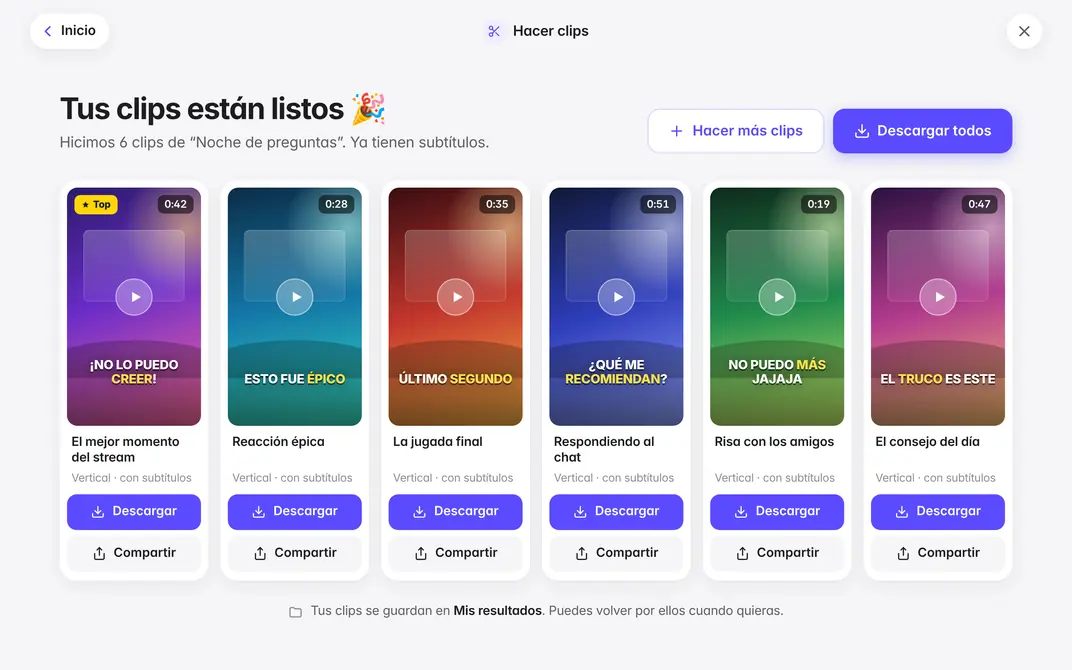
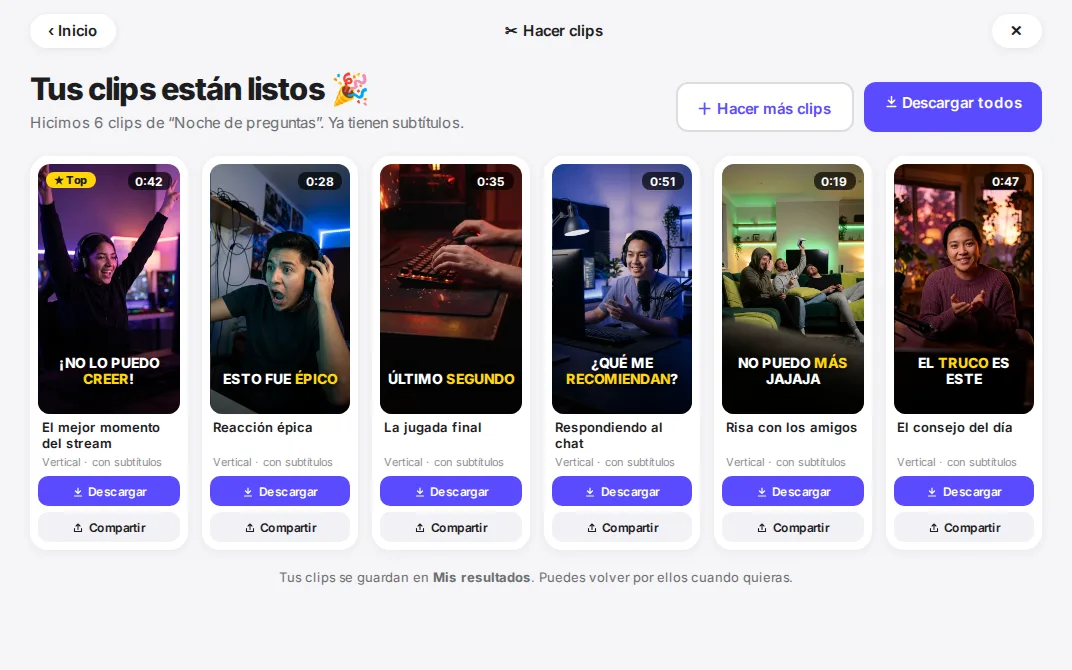
feat: Chalyb as one studio for Clips and En vivo; Chalito unlisted, landing with real clips
Owner request 2026-11-03: show only Clips and live streaming, all the studio in one place.
- Chalito is UNLISTED (display-names.ts): no card, list, plan strip or copy, but /app/chalito
  keeps working by link (push approvals, desktop sign-in).
- Señales is hidden from the admin panel (setToolVisible), so the paying-user check of terms
  §7.3 runs; nothing in code hard-hides it. The landing fallback and copy no longer name it.
- Plan strip falls back to 'see plans' when nothing listed is included.
- Footer financial disclaimer only while Señales, Pronósticos or Inversiones is active.
- Landing: hero laptop/phone re-rendered with the real clip stills (scripts/render-hero-shots.mjs),
  nav logo no longer cropped (40px image in a 34px box), Gemini photo for the En vivo card,
  copy reworked to 'Clips + En vivo, todo tu estudio en un solo lugar'.

diff --git a/tests/entitlement.test.ts b/tests/entitlement.test.ts
@@ -18,6 +18,7 @@ const ENGINES = [
     ownerUserId: null,
   },
   { id: 'e-obs', slug: 'chalybobs', status: 'active', tierRequired: 'PRO', ownerUserId: null },
+  { id: 'e-chalito', slug: 'chalito', status: 'active', tierRequired: 'PRO', ownerUserId: null },
   { id: 'e-bot', slug: 'chalybbot', status: 'coming_soon', tierRequired: 'PRO', ownerUserId: null },
   {
     id: 'e-stream',
@@ -50,7 +51,7 @@ test('FREE without a trial: every tool is a trial offer', () => {
   const e = computeEntitlements(input());
   assert.equal(e.plan, 'FREE');
   assert.equal(state(e, 'chalybclip'), 'trial_offer');
-  assert.equal(state(e, 'chalybcrypto'), 'trial_offer');
+  assert.equal(state(e, 'chalybobs'), 'trial_offer');
 });
 
 test('FREE with FREE_INCLUDES_CLIPS: Clips included, others offered', () => {
@@ -58,7 +59,6 @@ test('FREE with FREE_INCLUDES_CLIPS: Clips included, others offered', () => {
     input({ flags: { freeIncludesClips: true, proIncludesAllTools: false } }),
   );
   assert.equal(state(e, 'chalybclip'), 'included');
-  assert.equal(state(e, 'chalybcrypto'), 'trial_offer');
   assert.equal(state(e, 'chalybobs'), 'trial_offer');
 });
 
@@ -67,7 +67,7 @@ test('FREE in the legacy 7-day Clips trial: Clips only', () => {
     input({ clipsTrialStartedAt: new Date(NOW - 2 * DAY).toISOString() }),
   );
   assert.equal(state(e, 'chalybclip'), 'included');
-  assert.equal(state(e, 'chalybcrypto'), 'trial_offer');
+  assert.equal(state(e, 'chalybobs'), 'trial_offer');
   assert.deepEqual(e.trial, { kind: 'clips_legacy', daysLeft: 5, grace: false });
 });
 
@@ -80,16 +80,16 @@ test('FREE after the trial with bonus credits left: grace keeps Clips', () => {
 });
 
 test('PRO: the selected tool is included, the others are not (until P2)', () => {
-  const e = computeEntitlements(input({ storedTier: 'PRO', selectedEngineId: 'e-crypto' }));
-  assert.equal(state(e, 'chalybcrypto'), 'included');
-  assert.equal(state(e, 'chalybobs'), 'trial_offer');
+  const e = computeEntitlements(input({ storedTier: 'PRO', selectedEngineId: 'e-obs' }));
+  assert.equal(state(e, 'chalybobs'), 'included');
+  assert.equal(state(e, 'chalybclip'), 'trial_offer');
 });
 
 test('PRO with PRO_INCLUDES_ALL_TOOLS: every visible tool included', () => {
   const e = computeEntitlements(
     input({ storedTier: 'PRO', flags: { freeIncludesClips: false, proIncludesAllTools: true } }),
   );
-  for (const slug of ['chalybclip', 'chalybcrypto', 'chalybobs'])
+  for (const slug of ['chalybclip', 'chalybobs'])
     assert.equal(state(e, slug), 'included');
 });
 
@@ -99,7 +99,7 @@ test('VIP and admins: everything visible is included', () => {
     computeEntitlements(input({ role: 'ADMIN', storedTier: 'FREE' })),
   ]) {
     assert.equal(e.plan, 'VIP');
-    for (const slug of ['chalybclip', 'chalybcrypto', 'chalybobs'])
+    for (const slug of ['chalybclip', 'chalybobs'])
       assert.equal(state(e, slug), 'included');
   }
 });
@@ -108,6 +108,7 @@ test('unfinished and hidden tools have no entry at all', () => {
   const e = computeEntitlements(input({ storedTier: 'VIP' }));
   assert.equal(e.tools.chalybbot, undefined, 'coming_soon is not shown');
   assert.equal(e.tools.chalybstream, undefined, 'chalybstream is hidden (Q32)');
+  assert.equal(e.tools.chalybcrypto?.state, 'included', 'Señales is hidden from the admin panel, not in code');
 });
 
 test('a partner-owned tool is included for its owner', () => {
@@ -122,4 +123,9 @@ test('a partner-owned tool is included for its owner', () => {
   ];
   const e = computeEntitlements(input({ storedTier: 'PARTNER', engines }));
   assert.equal(state(e, 'chalybpicks'), 'included');
+});
+
+test('Chalito is unlisted, not hidden: its screens still get an entitlement', () => {
+  const e = computeEntitlements(input({ storedTier: 'VIP' }));
+  assert.equal(state(e, 'chalito'), 'included');
 });

diff --git a/src/components/app/home-model.ts b/src/components/app/home-model.ts
@@ -5,6 +5,7 @@ import type { Entitlements } from '@/lib/billing/entitlement-core';
 import { paidPlanName } from '@/lib/billing/plan-label';
 import { toolHref } from '@/lib/tools/routes';
 import { toolBySlug } from '@/config/tools';
+import { isListed } from '@/lib/engines/display-names';
 
 export type TaskKey = 'clips' | 'senales' | 'envivo' | 'mas';
 
@@ -33,10 +34,11 @@ function hrefFor(key: TaskKey, slug: string): string {
  * TOOLS-SPEC §2, F7, Q9). BUILD-SPEC §0.3: no dead-end cards.
  * `visibleSlugs` is the catalog order of the tools in entitlements.tools.
  */
-export function selectTaskCards(visibleSlugs: string[]): {
+export function selectTaskCards(slugs: string[]): {
   cards: TaskCardModel[];
   extraSlugs: string[];
 } {
+  const visibleSlugs = slugs.filter(isListed);
   const visible = new Set(visibleSlugs);
   const cards: TaskCardModel[] = HEADLINE.filter((h) => visible.has(h.slug)).map((h) => ({
     ...h,
@@ -63,7 +65,7 @@ export function selectPlanStrip(
   toolNames: Record<string, string>,
   flags: { proIncludesAllTools: boolean; trialFlow: boolean },
 ): PlanStrip {
-  const visible = Object.keys(e.tools);
+  const visible = Object.keys(e.tools).filter(isListed);
   const included = visible.filter((s) => e.tools[s]!.state === 'included');
   const names = (slugs: string[]) => slugs.map((s) => toolNames[s] ?? s);
 
@@ -80,5 +82,6 @@ export function selectPlanStrip(
       more: Math.max(0, all.length - 4),
     };
   }
+  if (included.length === 0) return { kind: 'offer', cta: 'plans' };
   return { kind: 'single', tools: names(included) };
 }

diff --git a/tests/app-shell.test.ts b/tests/app-shell.test.ts
@@ -156,7 +156,8 @@ test('plan labels', () => {
 });
 
 test('task cards: only visible headline tools, and Más only with extra live tools', () => {
-  const three = selectTaskCards(['chalybclip', 'chalybcrypto', 'chalybobs']);
+  // Chalito never gets a card (unlisted), even though entitlements carry it.
+  const three = selectTaskCards(['chalybclip', 'chalybcrypto', 'chalybobs', 'chalito']);
   assert.deepEqual(
     three.cards.map((c) => [c.key, c.href]),
     [
@@ -221,6 +222,7 @@ test('VIP / admin: everything included, chips of four + "y N más"', () => {
       chalybobs: 'included',
       chalybbot: 'included',
       chalybpicks: 'included',
+      chalito: 'included',
     }),
   };
   assert.deepEqual(selectPlanStrip(e, NAMES, OFF), {
@@ -251,4 +253,13 @@ test('Pro on one tool (Q7 off) names what it includes; with all tools it is "tod
     chips: ['Clips', 'Señales', 'En vivo'],
     more: 0,
   });
+});
+
+test('Pro with nothing listed included (its tool was hidden) gets "see plans", never an empty strip', () => {
+  const e = {
+    plan: 'PRO' as const,
+    trialUsed: false,
+    tools: tools({ chalybclip: 'trial_offer', chalybobs: 'trial_offer', chalito: 'included' }),
+  };
+  assert.deepEqual(selectPlanStrip(e, NAMES, OFF), { kind: 'offer', cta: 'plans' });
 });

diff --git a/src/components/public/public-footer.tsx b/src/components/public/public-footer.tsx
@@ -13,9 +13,14 @@ import { LEGAL_PAGES } from '@/lib/legal/public-pages';
 import { LanguageSwitcher } from '@/components/i18n/language-switcher';
 import { CookieSettingsButton } from './cookie-banner';
 
+/** The disclaimer names these tools, so it shows only while one of them is active. */
+const FINANCIAL = new Set(['chalybcrypto', 'chalybpicks', 'chalybtrade']);
+
 export async function PublicFooter({ onLanding = false }: { onLanding?: boolean }) {
   const t = await getTranslations('landing.publicFooter');
-  const tools = (await listActiveTools()).slice(0, 3);
+  const active = await listActiveTools();
+  const tools = active.slice(0, 3);
+  const financial = active.some((x) => FINANCIAL.has(x.slug));
   const entity = legalEntity();
   const seller = [entity.name, entity.address, entity.phone, entity.email].filter(Boolean);
 
@@ -67,7 +72,7 @@ export async function PublicFooter({ onLanding = false }: { onLanding?: boolean 
           </nav>
         </div>
 
-        <p className="pub-foot__disc">{t('disclaimer')}</p>
+        {financial && <p className="pub-foot__disc">{t('disclaimer')}</p>}
 
         {seller.length > 0 && (
           <address className="pub-foot__seller">

diff --git a/src/app/[locale]/(dashboard)/app/settings/page.tsx b/src/app/[locale]/(dashboard)/app/settings/page.tsx
@@ -28,6 +28,7 @@ import { Avatar, ButtonLink, Group, Row } from '@/components/ui/primitives';
 import { SignOutRow } from '@/components/app/sign-out-row';
 import { getClipsAdapter } from '@/lib/tools/adapters/clips';
 import { PLATFORM_NAMES } from '@/components/tools/clips/accounts-list';
+import { isListed } from '@/lib/engines/display-names';
 
 export async function generateMetadata(): Promise<Metadata> {
   const t = await getTranslations('account');
@@ -67,7 +68,9 @@ export default async function MiCuentaPage({ params }: { params: Promise<{ local
     ?.filter((a) => a.connected)
     .map((a) => PLATFORM_NAMES[a.platform]);
   const listFmt = new Intl.ListFormat(locale === 'es' ? 'es' : 'en', { type: 'conjunction' });
-  const tools = Object.values(entitlements.tools);
+  const tools = Object.entries(entitlements.tools)
+    .filter(([slug]) => isListed(slug))
+    .map(([, a]) => a);
   const allIncluded = tools.length > 0 && tools.every((a) => a.state === 'included');
   const planKey = planLabelKey(entitlements.plan) as 'gratis' | 'pro' | 'vip';
   // "Ver mi plan" → Mi plan (SCR-30); Free → the trial (SCR-14) once it exists.

diff --git a/src/lib/engines/display-names.ts b/src/lib/engines/display-names.ts
@@ -32,6 +32,15 @@ export const ENGINE_DISPLAY_NAMES: Record<string, string> = {
  *  their status (Q32). */
 export const HIDDEN_FROM_CUSTOMERS: ReadonlySet<string> = new Set(['chalybstream']);
 
+// Owner request 2026-11-03: Chalyb lists only Clips and En vivo. Chalito keeps its
+// /app/chalito links (push approvals, desktop sign-in) but never shows in a list.
+export const UNLISTED: ReadonlySet<string> = new Set(['chalito']);
+
+/** Whether a slug may appear in customer lists. */
+export function isListed(slug: string): boolean {
+  return !HIDDEN_FROM_CUSTOMERS.has(slug) && !UNLISTED.has(slug);
+}
+
 /** Tool colors from the design system (`more_shared.py` TOOLS). */
 export const TOOL_COLORS: Record<string, string> = {
   chalybclip: '#5B4BFF',
@@ -58,9 +67,3 @@ export function engineDisplayName(
   return ENGINE_DISPLAY_NAMES[key] ?? fallback ?? (slug || '');
 }
 
-/** The three tools with a product behind them today, in display order. */
-export const LIVE_ENGINE_NAMES = [
-  ENGINE_DISPLAY_NAMES.chalybclip!,
-  ENGINE_DISPLAY_NAMES.chalybcrypto!,
-  ENGINE_DISPLAY_NAMES.chalybobs!,
-] as const;

diff --git a/src/app/[locale]/(dashboard)/app/herramientas/page.tsx b/src/app/[locale]/(dashboard)/app/herramientas/page.tsx
@@ -7,6 +7,7 @@ import { getSessionUser } from '@/lib/auth/session';
 import { listEngines } from '@/lib/data/engines';
 import { getEntitlements } from '@/lib/billing/entitlement';
 import { isCustomerVisible } from '@/lib/billing/entitlement-core';
+import { isListed } from '@/lib/engines/display-names';
 import { proIncludesAllTools, trialFlowEnabled } from '@/lib/config/flags';
 import { TOOLS, toolBySlug } from '@/config/tools';
 import { toolHref } from '@/lib/tools/routes';
@@ -51,7 +52,7 @@ export default async function HerramientasPage({
   if (!session) return null;
   const [entitlements, engines] = await Promise.all([getEntitlements(session), listEngines().catch(() => [])]);
   const visibleSlugs = new Set(
-    engines.filter((e) => isCustomerVisible(e) && entitlements.tools[e.slug]).map((e) => e.slug),
+    engines.filter((e) => isCustomerVisible(e) && isListed(e.slug) && entitlements.tools[e.slug]).map((e) => e.slug),
   );
   const main = TOOLS.filter((x) => visibleSlugs.has(x.slug));
   const extra = engines.filter(

diff --git a/tests/display-names.test.ts b/tests/display-names.test.ts
@@ -4,6 +4,7 @@ import {
   ENGINE_DISPLAY_NAMES,
   HIDDEN_FROM_CUSTOMERS,
   engineDisplayName,
+  isListed,
 } from '@/lib/engines/display-names';
 
 test('customer tool names (P0-8)', () => {
@@ -28,6 +29,13 @@ test('no display name carries a Chaly* product name', () => {
 test('the map wins over a stale database name', () => {
   assert.equal(engineDisplayName('chalybclip', 'ChalyClip'), 'Clips');
   assert.equal(engineDisplayName('newthing', 'Fallback'), 'Fallback');
+});
+
+test('Chalito and hidden tools never list; the rest do', () => {
+  assert.equal(isListed('chalito'), false);
+  assert.equal(isListed('chalybstream'), false);
+  assert.equal(isListed('chalybclip'), true);
+  assert.equal(isListed('chalybobs'), true);
 });
 
 test('chalybstream stays hidden from customers (Q32)', () => {

diff --git a/tests/public-site.test.ts b/tests/public-site.test.ts
@@ -68,10 +68,10 @@ test('hero rows, audience cards and the tool list follow the active tools', () =
   const three = fallbackTools();
   assert.deepEqual(
     heroRows(three).map((t) => t.slug),
-    ['chalybclip', 'chalybcrypto', 'chalybobs'],
+    ['chalybclip', 'chalybobs'],
   );
-  assert.deepEqual(audienceCards(three), ['streamers', 'creators', 'investors']);
-  assert.equal(toolList(three, 'es'), 'Clips, Señales y En vivo');
+  assert.deepEqual(audienceCards(three), ['streamers', 'creators']);
+  assert.equal(toolList(three, 'es'), 'Clips y En vivo');
 
   const all = activeTools(
     rows([

diff --git a/src/lib/tools/public-tools.ts b/src/lib/tools/public-tools.ts
@@ -26,7 +26,7 @@ export type ToolSlug = (typeof TOOL_ORDER)[number];
 
 /** The tools with a product behind them today; the fallback when the catalog
  *  can't be read, so the landing never claims more than this. */
-export const FALLBACK_ACTIVE: readonly ToolSlug[] = ['chalybclip', 'chalybcrypto', 'chalybobs'];
+export const FALLBACK_ACTIVE: readonly ToolSlug[] = ['chalybclip', 'chalybobs'];
 
 export interface PublicTool {
   slug: ToolSlug;

diff --git a/src/styles/chalyb-tokens.css b/src/styles/chalyb-tokens.css
@@ -712,6 +712,12 @@ body {
   overflow: hidden;
   flex: none;
 }
+/* The mark scales with its box: a smaller box (34px in the public nav) used to crop it. */
+.chalyb-app .ch-logo__mark .lp-mark {
+  width: 100%;
+  height: 100%;
+  object-fit: contain;
+}
 .chalyb-app .ch-logo__word {
   font-size: 25px;
   font-weight: 700;
